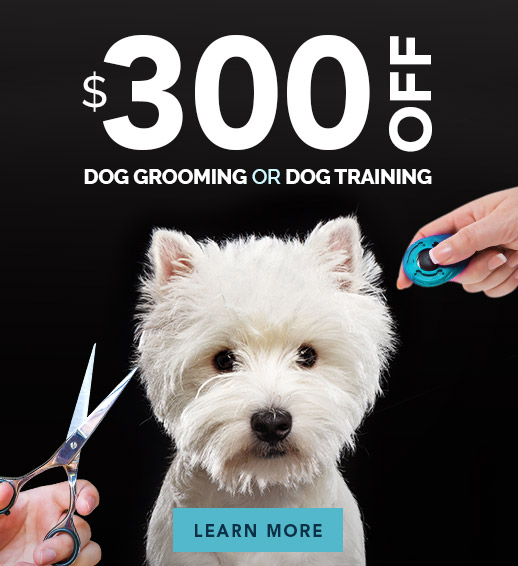
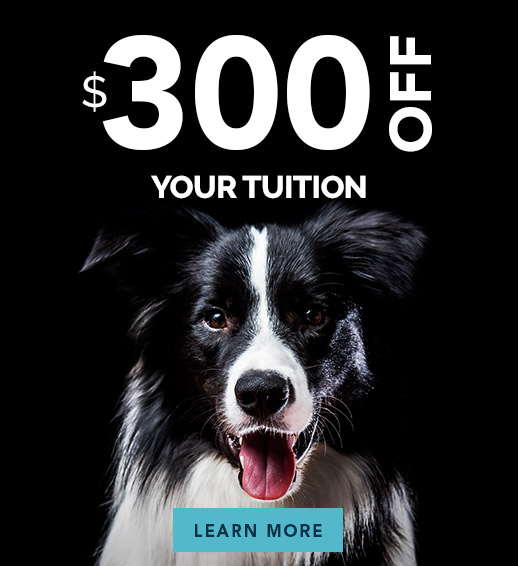
Update black friday images for pet

diff --git a/src/pages/pet/default/2022/11/23/Promo.tsx b/src/pages/pet/default/2022/11/23/Promo.tsx
@@ -12,6 +12,8 @@ const lastChanceGraphicsDate = new Date(Date.UTC(2022, 10, 29, 5)); // November 
 const timerShowDate = new Date(Date.UTC(2022, 10, 29, 5)); // November 29 at 00:00 (05:00 UTC)
 const timerEndDate = new Date(Date.UTC(2022, 11, 3, 5)); // December 3 at 00:00 (05:00 UTC)
 
+const backgroundColor = 'black';
+
 export const PetPromo20221123: FC = () => {
   const serverDate = useDateContext();
   const date = dateOverride() ?? serverDate;
@@ -49,7 +51,7 @@ export const PetPromo20221123: FC = () => {
 
   return (
     <>
-      <section id="promoSection" style={{ backgroundColor: 'black', padding: 0 }}>
+      <section id="promoSection" style={{ backgroundColor, padding: 0 }}>
         <div className="container text-center px-0">
           <button className="btn btn-link p-0 border-0 btn-no-hover-shadow" onClick={togglePopup}>
             <img src={image} width={width} height={height} className="img-fluid d-block mx-auto" alt="Special Offer" />
